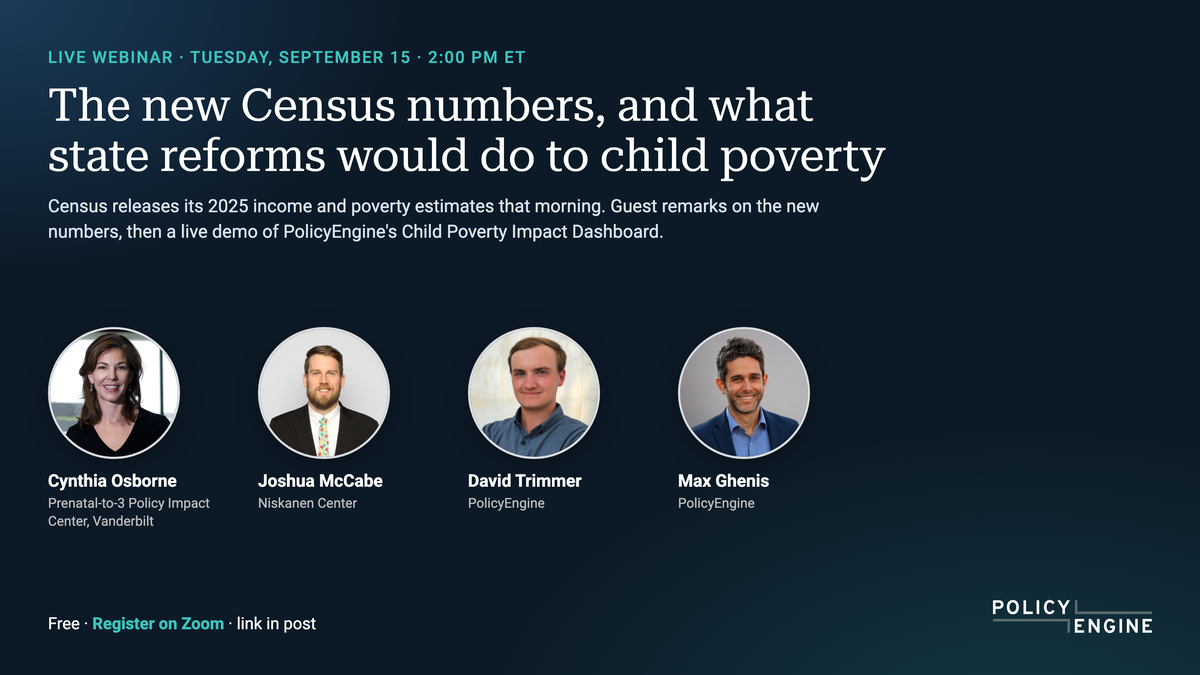
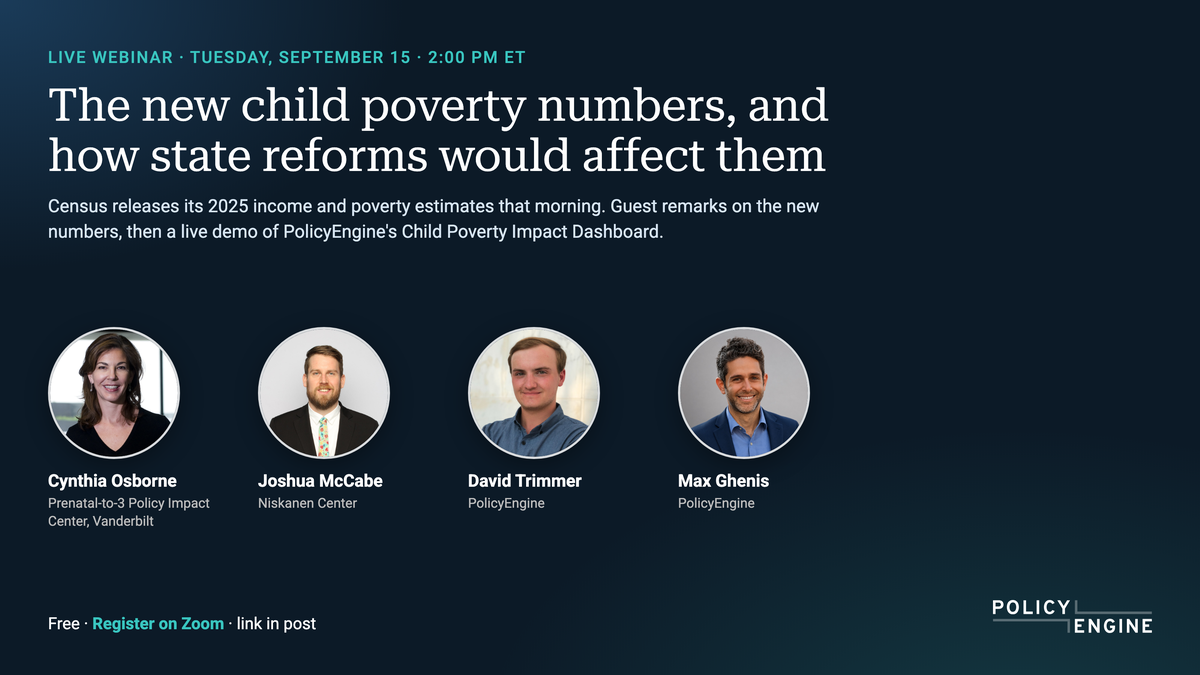
Headline: the new child poverty numbers, and how state reforms would affect them

Changed region(s): [[0.0308, 0.1244, 0.74, 0.28]]

diff --git a/editions/2026-09-08-us.html b/editions/2026-09-08-us.html
@@ -51,7 +51,7 @@
                             </p>
 
                             <h1 class="hero-title" style="margin: 0 0 20px 0; font-size: 28px; font-weight: 800; color: #FFFFFF; line-height: 1.15; letter-spacing: -0.02em;">
-                                The new Census numbers, and what state reforms would do to child poverty
+                                The new child poverty numbers, and how state reforms would affect them
                             </h1>
 
                             <p style="margin: 0; font-size: 15px; line-height: 1.65; color: #B2F5EA; font-weight: 400;">
@@ -94,7 +94,7 @@
                             <table width="100%" cellpadding="0" cellspacing="0" style="border-bottom: 1px solid #E2E8F0;">
                                 <tr>
                                     <td class="pad" style="padding: 28px 40px 0 40px;">
-                                        <img src="https://raw.githubusercontent.com/PolicyEngine/newsletters/2026-09-08-us/assets/images/cpid-webinar-2026-09-15.png" alt="Live webinar, Tuesday September 15 at 2pm ET. The new Census numbers, and what state reforms would do to child poverty. Speakers: Cynthia Osborne, Joshua McCabe, David Trimmer, Max Ghenis." style="width: 100%; height: auto; border-radius: 8px; margin-bottom: 28px;">
+                                        <img src="https://raw.githubusercontent.com/PolicyEngine/newsletters/2026-09-08-us/assets/images/cpid-webinar-2026-09-15.png" alt="Live webinar, Tuesday September 15 at 2pm ET. The new child poverty numbers, and how state reforms would affect them. Speakers: Cynthia Osborne, Joshua McCabe, David Trimmer, Max Ghenis." style="width: 100%; height: auto; border-radius: 8px; margin-bottom: 28px;">
                                     </td>
                                 </tr>
                             </table>
